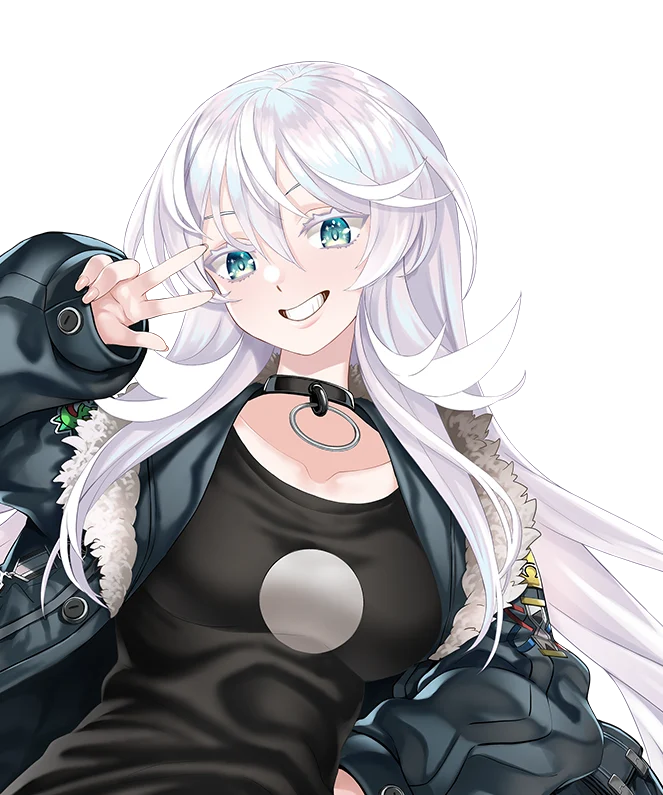
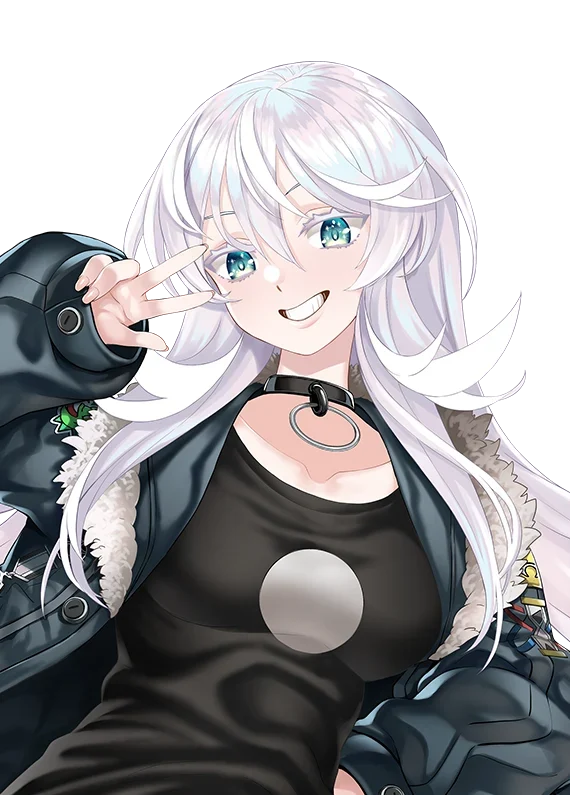
Recentre Anya half-body
Claude-Session: https://claude.ai/code/session_0182ETGqkY6VZC2ACV9rE9Mb

diff --git a/index.html b/index.html
@@ -951,7 +951,7 @@ var TALENTS = [
   { id:'lapine', halves:['talent-lapine-half.webp'], card:'talent-lapine-half.webp', img:'talent-lapine.webp', face:'talent-lapine-face.webp?v=7',  name:'Lapine', short:'Lapine', ini:'LP', type:'VTuber', aff:{name:'Polygon', logo:'logos/polygon-mark.png'}, langs:['th','en'], color:'#FFD9E4', tags:['#Singing','#FreeTalk','#Gaming'], works:['promo','review','cover','collab','dub'], links:[['YouTube',69355,'https://www.youtube.com/@LapinePLG'],['TikTok',8885,'https://www.tiktok.com/@lapineplg'],['Facebook',16150,'https://www.facebook.com/LapinePolygon'],['X',20482,'https://x.com/LapinePLG']], quote:['ลาพิเน่ กระต่ายสีชมพูที่คุณดูแล้วต้องกำหมัด','Lapine, the pink bunny so cute you will clench your fists.'] },
   { id:'luxia', halves:['talent-luxia-half.webp?v=2'], card:'talent-luxia-half.webp?v=2', img:'talent-luxia.webp?v=3', face:'talent-luxia-face.webp?v=8',  name:'Luxia', short:'Luxia', ini:'LX', type:'VTuber', aff:{name:'Polygon', logo:'logos/polygon-mark.png'}, langs:['th'], color:'#E7E1F7', tags:['#Singing','#FreeTalk','#Gaming','#Drawing'], works:['promo','review','collab','dub'], links:[['YouTube',57079,'https://www.youtube.com/@LuxiaPLG'],['TikTok',15700,'https://www.tiktok.com/@luxiaplg'],['Facebook',12455,'https://www.facebook.com/LuxiaPolygon'],['X',16481,'https://x.com/LuxiaPLG']], quote:['ลูเซีย แม่ชีนักวาดผู้ไม่อาจหยุดความวายป่วง','Luxia, an artist nun who simply cannot stop the chaos.'] },
   { id:'riona', halves:['talent-riona-half.webp','talent-riona-2-half.webp'], card:'talent-riona-half.webp', img:'talent-riona.webp', face:'talent-riona-face.webp?v=7', forms:['talent-riona.webp','talent-riona-2.webp'],  name:'Riona', short:'Riona', ini:'RN', type:'VTuber', aff:{name:'Polygon', logo:'logos/polygon-mark.png'}, langs:['th','en'], color:'#FFE7C7', tags:['#Singing','#FreeTalk','#Gaming','#RolePlay'], works:['promo','review','collab','dub'], links:[['YouTube',16208,'https://www.youtube.com/@RionaPLG'],['TikTok',4081,'https://www.tiktok.com/@rionaplg'],['Facebook',10980,'https://www.facebook.com/RionaPolygon'],['X',4583,'https://x.com/RionaPLG']], quote:['เสือ สวย รวย และน่าน้วยก็ได้ ประธานนักเรียนรุ่นที่ 10 โรงเรียน PLG ริโอน่า สวัสดีค่ะ','A tiger: pretty, rich, and cuddly if you like. Hello, I am Riona, 10th student council president of PLG School!'] },
-  { id:'anya', halves:['talent-anya-half.webp','talent-anya-2-half.webp'], card:'talent-anya-half.webp', img:'talent-anya.webp?v=2', face:'talent-anya-face.webp?v=7', forms:['talent-anya.webp?v=2','talent-anya-2.webp'],  name:'Anya', short:'Anya', ini:'AY', type:'VTuber', aff:{name:'Polygon', logo:'logos/polygon-mark.png'}, langs:['th'], color:'#DCEFE3', tags:['#Singing','#FreeTalk','#Gaming','#HandCam'], works:['promo','review','collab','dub'], links:[['YouTube',19635,'https://www.youtube.com/@AnyaPLG'],['TikTok',8095,'https://www.tiktok.com/@anyaplg'],['Facebook',7139,'https://www.facebook.com/AnyaPolygon'],['X',4071,'https://x.com/AnyaPLG']], quote:['ลึกแต่ไม่ลับ คับแต่ไม่แคบ ไม่ใช่แค่ช้าง แต่เป็นแมมมอธ แฮ่ !','Deep but no secrets, packed but never cramped. Not just an elephant, a mammoth. Rawr!'] },
+  { id:'anya', halves:['talent-anya-half.webp?v=2','talent-anya-2-half.webp'], card:'talent-anya-half.webp?v=2', img:'talent-anya.webp?v=2', face:'talent-anya-face.webp?v=7', forms:['talent-anya.webp?v=2','talent-anya-2.webp'],  name:'Anya', short:'Anya', ini:'AY', type:'VTuber', aff:{name:'Polygon', logo:'logos/polygon-mark.png'}, langs:['th'], color:'#DCEFE3', tags:['#Singing','#FreeTalk','#Gaming','#HandCam'], works:['promo','review','collab','dub'], links:[['YouTube',19635,'https://www.youtube.com/@AnyaPLG'],['TikTok',8095,'https://www.tiktok.com/@anyaplg'],['Facebook',7139,'https://www.facebook.com/AnyaPolygon'],['X',4071,'https://x.com/AnyaPLG']], quote:['ลึกแต่ไม่ลับ คับแต่ไม่แคบ ไม่ใช่แค่ช้าง แต่เป็นแมมมอธ แฮ่ !','Deep but no secrets, packed but never cramped. Not just an elephant, a mammoth. Rawr!'] },
   { id:'monace', halves:['talent-monace-half.webp'], card:'talent-monace-half.webp', img:'talent-monace.webp', face:'talent-monace-face.webp?v=7',  name:'Monace', short:'Monace', ini:'MN', type:'VTuber', aff:{name:'Polygon', logo:'logos/polygon-mark.png'}, langs:['th','en'], color:'#D9E4F5', tags:['#Singing','#FreeTalk','#Gaming','#SongComposer'], works:['promo','review','cover','collab','dub'], links:[['YouTube',2608,'https://www.youtube.com/@MONACEPLG'],['TikTok',1735,'https://www.tiktok.com/@monaceplg'],['Facebook',558,'https://www.facebook.com/MONACEPLG'],['X',1477,'https://x.com/MONACEPLG']], quote:['แรปเปอร์ตัวตึงอาจจะดูเท่ แต่ใจดี พร้อมอยู่ข้างๆ ให้คุณรู้สึกสบายใจเสมอ โซโล โมเนซ ครับ 🪽','A rapper who may look tough but has a kind heart, always by your side to put you at ease. Solo Monace here 🪽'] },
   { id:'vinxiii', halves:['talent-vinxiii-half.webp'], card:'talent-vinxiii-half.webp', img:'talent-vinxiii.webp', face:'talent-vinxiii-face.webp?v=7',  name:'VinXIII', short:'VinXIII', ini:'VX', type:'VTuber', aff:{name:'Polygon', logo:'logos/polygon-mark.png'}, langs:['th'], color:'#F6E7C8', tags:['#Singing','#FreeTalk','#Gaming'], works:['promo','review','cover','collab'], links:[['YouTube',1715,'https://www.youtube.com/@VinXIIIPLG'],['TikTok',1187,'https://www.tiktok.com/@vinxiiiplg'],['Facebook',139,'https://www.facebook.com/VinXIIIPLG'],['X',2175,'https://x.com/VinXIIIPLG']], quote:['ถ้าตามหาคนที่จะทำให้หัวเราะได้ วินซี่ อยู่ตรงนี้เองครับ ที่ไม่ว่าอยู่ที่ไหนก็ทำให้บรรยากาศสดใสขึ้นทันที ⚜','Looking for someone to make you laugh? Vinzy is right here, brightening the room wherever he goes ⚜'] },
   { id:'augustine', halves:['talent-augustine-half.webp'], card:'talent-augustine-half.webp', img:'talent-augustine.webp', face:'talent-augustine-face.webp?v=7',  name:'Augustine', short:'Augustine', ini:'AG', type:'VTuber', aff:{name:'Polygon', logo:'logos/polygon-mark.png'}, langs:['th','en'], color:'#E3F0FA', tags:['#Singing','#FreeTalk','#Gaming','#Dentist'], works:['promo','review','cover','collab'], links:[['YouTube',10500,'https://www.youtube.com/@AugustinePLG'],['TikTok',37200,'https://www.tiktok.com/@augustineplg'],['Facebook',770,'https://www.facebook.com/AugustinePLG'],['X',4178,'https://x.com/AugustinePLG']], quote:['ออกัสทีนเองครับ มีทั้งความสวย ความหล่อ และพลังบวกที่จะทำให้คุณยิ้มได้ทุกวัน อยากมาลองชิมมั้ยครับ','Augustine here: pretty, handsome and full of good vibes to make you smile every day. Care for a taste?'] },
